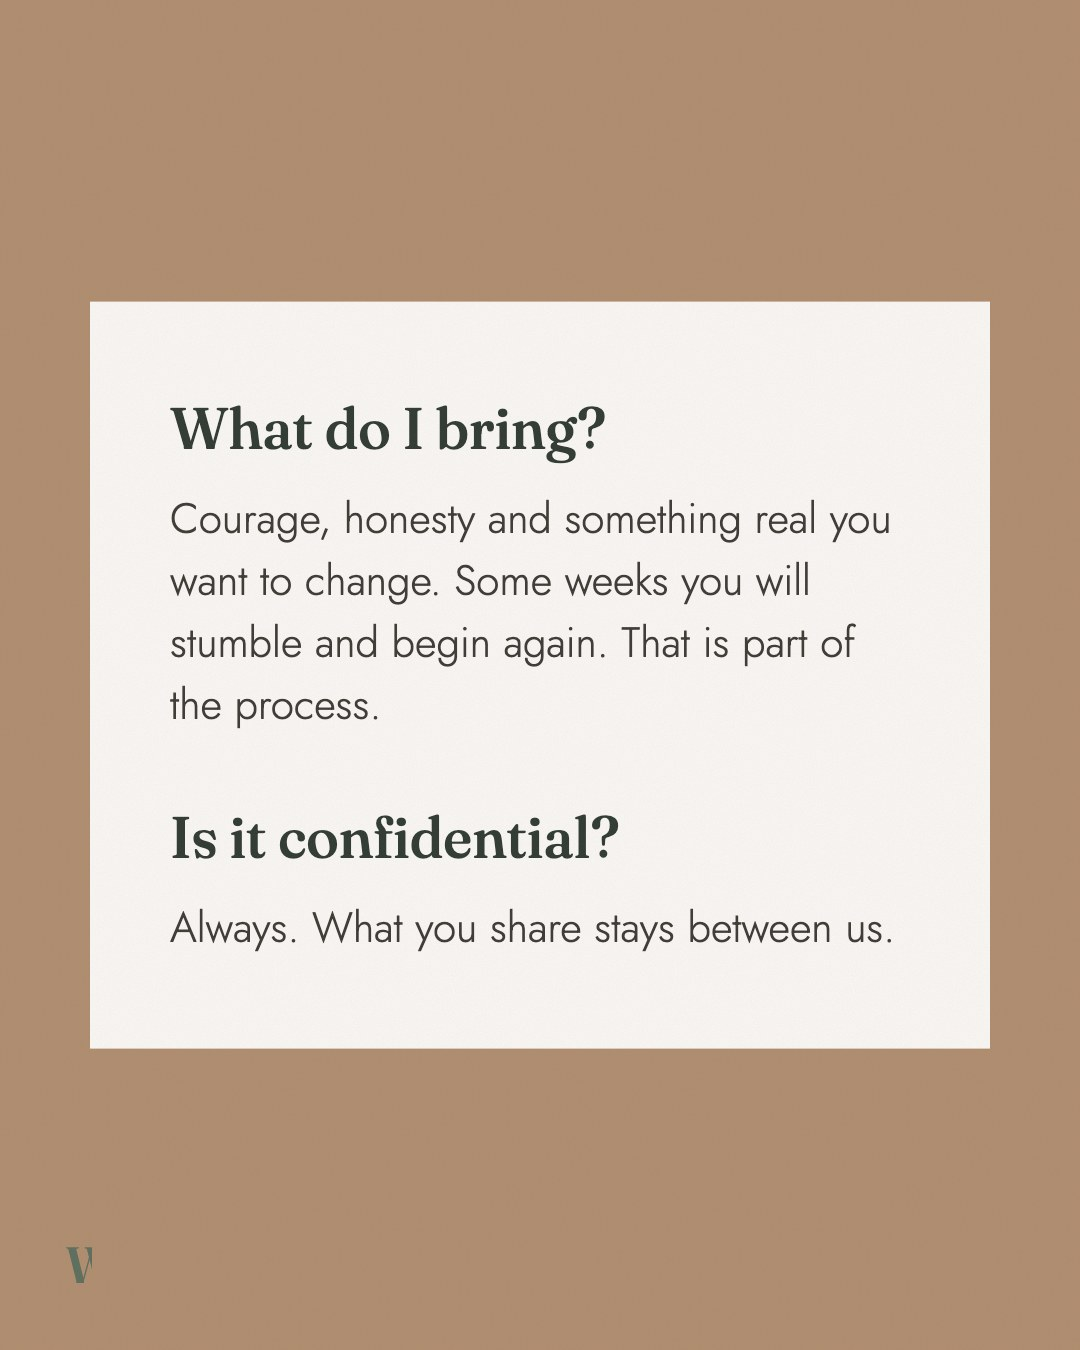
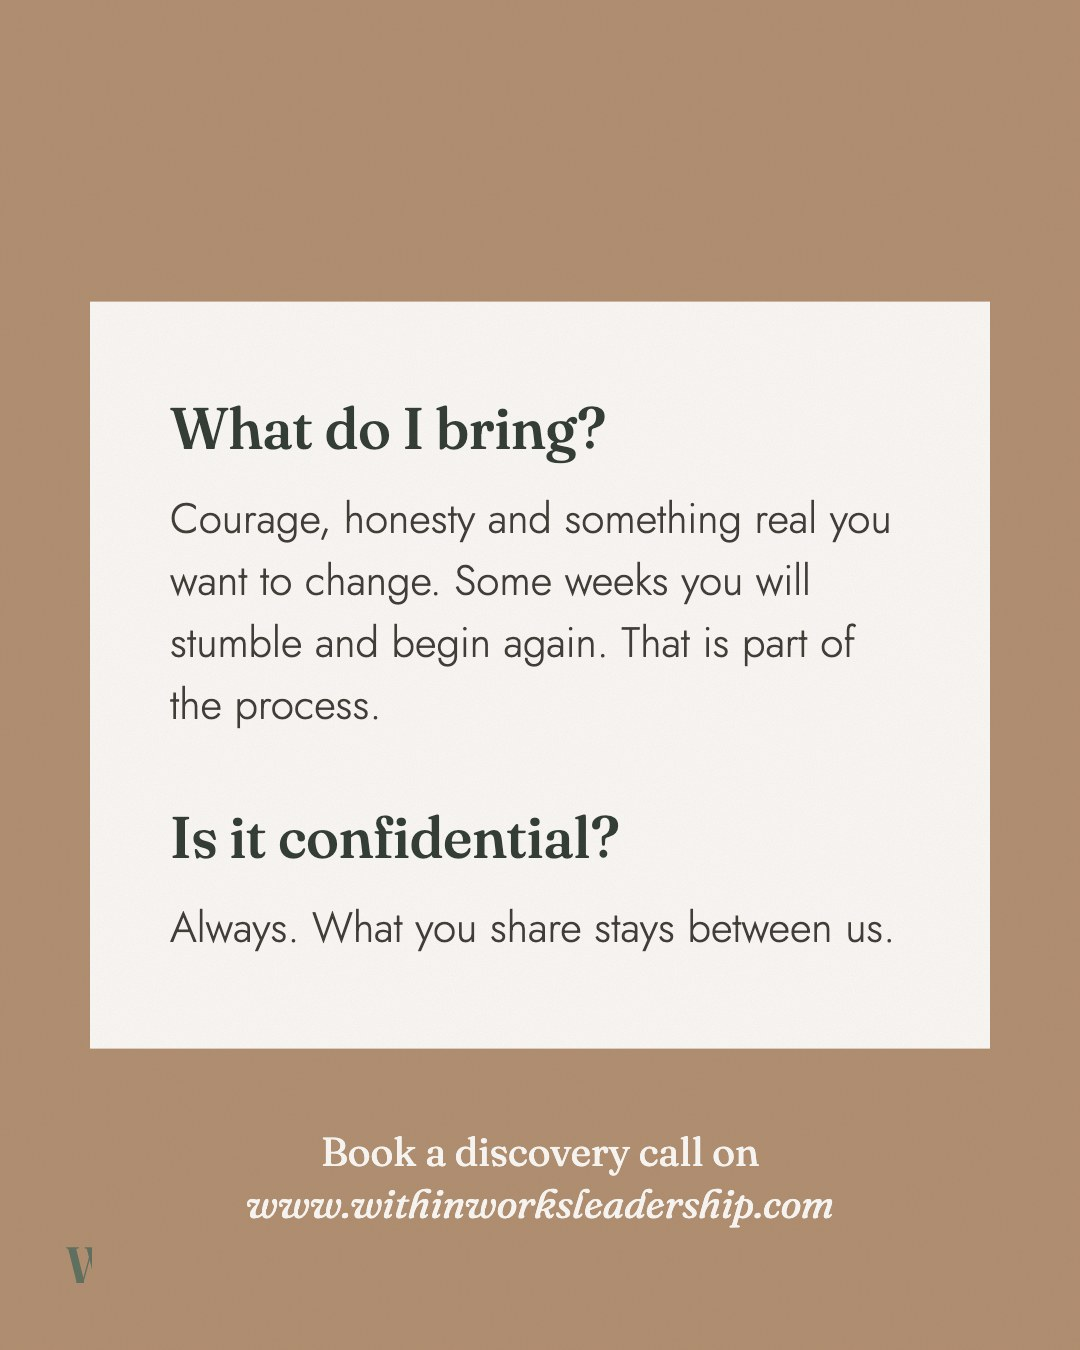
CTA: discovery call on post 3, posts 4 and 7 captions, reel 2

Changed region(s): [[0.2139, 0.84, 0.7639, 0.9022]]

diff --git a/content/index.html b/content/index.html
@@ -51,24 +51,32 @@ Not sure which one you need? Ask me. I’ll tell you honestly, even if it isn’
 <p class="eyebrow" style="margin-bottom:10px">03 &middot; How coaching works<span class="rev">Revised 4 Nov</span></p>
 <div class="ig">
   <div class="ig-head"><img src="../assets/megha.jpg" alt=""><span><b>megha.withinworks</b><small>Dubai</small></span><span class="dots">&middot;&middot;&middot;</span></div>
-  <div class="ig-media"><div class="ig-track"><img src="../posts/c1-11a.jpg?v=1793812915" alt="" loading="lazy" width="1080" height="1350"><img src="../posts/c1-11b.jpg?v=1793812916" alt="" loading="lazy" width="1080" height="1350"><img src="../posts/c1-11c.jpg?v=1793812916" alt="" loading="lazy" width="1080" height="1350"></div><span class="ig-count">1/3</span><button class="ig-arrow prev" aria-label="Previous" hidden>&#8249;</button><button class="ig-arrow next" aria-label="Next">&#8250;</button></div>
+  <div class="ig-media"><div class="ig-track"><img src="../posts/c1-11a.jpg?v=1793814234" alt="" loading="lazy" width="1080" height="1350"><img src="../posts/c1-11b.jpg?v=1793814235" alt="" loading="lazy" width="1080" height="1350"><img src="../posts/c1-11c.jpg?v=1793814235" alt="" loading="lazy" width="1080" height="1350"></div><span class="ig-count">1/3</span><button class="ig-arrow prev" aria-label="Previous" hidden>&#8249;</button><button class="ig-arrow next" aria-label="Next">&#8250;</button></div>
   <div class="ig-bar"><svg viewBox="0 0 24 24" class=""><path d="M12 21s-7.5-4.6-9.3-9.2C1.4 8.4 3.6 5 7 5c2 0 3.4 1.1 5 3 1.6-1.9 3-3 5-3 3.4 0 5.6 3.4 4.3 6.8C19.5 16.4 12 21 12 21z"/></svg><svg viewBox="0 0 24 24" class=""><path d="M20.5 12a8.5 8.5 0 0 1-12.4 7.5L3.5 21l1.5-4.4A8.5 8.5 0 1 1 20.5 12z"/></svg><svg viewBox="0 0 24 24" class=""><path d="M22 3 9.2 10.1M22 3l-7 18-3.8-8.6L2 9.5 22 3z"/></svg><span class="ig-pips"><i></i><i></i><i></i></span><svg viewBox="0 0 24 24" class="save"><path d="M19 21l-7-5.2L5 21V3h14z"/></svg></div>
   <div class="ig-cap clip"><b>megha.withinworks</b>Coaching is a process, not a pill. It asks for courage, honest conversations and the willingness to begin again.
 
-Small steps. No judgement, just progress.</div><button class="ig-more" type="button">more</button>
+Small steps. No judgement, just progress.
+
+Book a discovery call on www.withinworksleadership.com</div><button class="ig-more" type="button">more</button>
   <div class="ig-when"><span></span><div class="copyrow"><button class="copy" type="button" title="Copy caption" aria-label="Copy caption"><svg viewBox="0 0 24 24"><rect x="9" y="9" width="11" height="11" rx="2"/><path d="M5 15V6a2 2 0 0 1 2-2h9"/></svg></button><textarea class="cap-src" hidden>Coaching is a process, not a pill. It asks for courage, honest conversations and the willingness to begin again.
 
-Small steps. No judgement, just progress.</textarea></div></div>
+Small steps. No judgement, just progress.
+
+Book a discovery call on www.withinworksleadership.com</textarea></div></div>
 </div>
 <div class="review post" data-id="c1-11" data-title="How coaching works" style="background:none;border:0;padding:14px 0 0"></div>
 </article><article class="post-wrap" id="c1-9">
-<p class="eyebrow" style="margin-bottom:10px">04 &middot; Who I work with</p>
+<p class="eyebrow" style="margin-bottom:10px">04 &middot; Who I work with<span class="rev">Revised 4 Nov</span></p>
 <div class="ig">
   <div class="ig-head"><img src="../assets/megha.jpg" alt=""><span><b>megha.withinworks</b><small>Dubai</small></span><span class="dots">&middot;&middot;&middot;</span></div>
   <div class="ig-media"><div class="ig-track"><img src="../posts/c1-9.jpg?v=1793551166" alt="" loading="lazy" width="1080" height="1350"></div></div>
   <div class="ig-bar"><svg viewBox="0 0 24 24" class=""><path d="M12 21s-7.5-4.6-9.3-9.2C1.4 8.4 3.6 5 7 5c2 0 3.4 1.1 5 3 1.6-1.9 3-3 5-3 3.4 0 5.6 3.4 4.3 6.8C19.5 16.4 12 21 12 21z"/></svg><svg viewBox="0 0 24 24" class=""><path d="M20.5 12a8.5 8.5 0 0 1-12.4 7.5L3.5 21l1.5-4.4A8.5 8.5 0 1 1 20.5 12z"/></svg><svg viewBox="0 0 24 24" class=""><path d="M22 3 9.2 10.1M22 3l-7 18-3.8-8.6L2 9.5 22 3z"/></svg><svg viewBox="0 0 24 24" class="save"><path d="M19 21l-7-5.2L5 21V3h14z"/></svg></div>
-  <div class="ig-cap clip"><b>megha.withinworks</b>If one of these sounds like you, I’d like to hear your story.</div><button class="ig-more" type="button">more</button>
-  <div class="ig-when"><span></span><div class="copyrow"><button class="copy" type="button" title="Copy caption" aria-label="Copy caption"><svg viewBox="0 0 24 24"><rect x="9" y="9" width="11" height="11" rx="2"/><path d="M5 15V6a2 2 0 0 1 2-2h9"/></svg></button><textarea class="cap-src" hidden>If one of these sounds like you, I’d like to hear your story.</textarea></div></div>
+  <div class="ig-cap clip"><b>megha.withinworks</b>If one of these sounds like you, I’d like to hear your story.
+
+Book a discovery call on www.withinworksleadership.com</div><button class="ig-more" type="button">more</button>
+  <div class="ig-when"><span></span><div class="copyrow"><button class="copy" type="button" title="Copy caption" aria-label="Copy caption"><svg viewBox="0 0 24 24"><rect x="9" y="9" width="11" height="11" rx="2"/><path d="M5 15V6a2 2 0 0 1 2-2h9"/></svg></button><textarea class="cap-src" hidden>If one of these sounds like you, I’d like to hear your story.
+
+Book a discovery call on www.withinworksleadership.com</textarea></div></div>
 </div>
 <div class="review post" data-id="c1-9" data-title="Who I work with" style="background:none;border:0;padding:14px 0 0"></div>
 </article><article class="post-wrap" id="c1-15">
@@ -92,13 +100,17 @@ Small steps. No judgement, just progress.</textarea></div></div>
 </div>
 <div class="review post" data-id="c1-2" data-title="Words in the world" style="background:none;border:0;padding:14px 0 0"></div>
 </article><article class="post-wrap" id="c1-12">
-<p class="eyebrow" style="margin-bottom:10px">07 &middot; Three people in the room</p>
+<p class="eyebrow" style="margin-bottom:10px">07 &middot; Three people in the room<span class="rev">Revised 4 Nov</span></p>
 <div class="ig">
   <div class="ig-head"><img src="../assets/megha.jpg" alt=""><span><b>megha.withinworks</b><small>Dubai</small></span><span class="dots">&middot;&middot;&middot;</span></div>
   <div class="ig-media"><div class="ig-track"><img src="../posts/c1-12a.jpg?v=1793808675" alt="" loading="lazy" width="1080" height="1350"><img src="../posts/c1-12b.jpg?v=1793808676" alt="" loading="lazy" width="1080" height="1350"></div><span class="ig-count">1/2</span><button class="ig-arrow prev" aria-label="Previous" hidden>&#8249;</button><button class="ig-arrow next" aria-label="Next">&#8250;</button></div>
   <div class="ig-bar"><svg viewBox="0 0 24 24" class=""><path d="M12 21s-7.5-4.6-9.3-9.2C1.4 8.4 3.6 5 7 5c2 0 3.4 1.1 5 3 1.6-1.9 3-3 5-3 3.4 0 5.6 3.4 4.3 6.8C19.5 16.4 12 21 12 21z"/></svg><svg viewBox="0 0 24 24" class=""><path d="M20.5 12a8.5 8.5 0 0 1-12.4 7.5L3.5 21l1.5-4.4A8.5 8.5 0 1 1 20.5 12z"/></svg><svg viewBox="0 0 24 24" class=""><path d="M22 3 9.2 10.1M22 3l-7 18-3.8-8.6L2 9.5 22 3z"/></svg><span class="ig-pips"><i></i><i></i></span><svg viewBox="0 0 24 24" class="save"><path d="M19 21l-7-5.2L5 21V3h14z"/></svg></div>
-  <div class="ig-cap clip"><b>megha.withinworks</b>Company coaching works best when everyone knows their part. Yours matters most.</div><button class="ig-more" type="button">more</button>
-  <div class="ig-when"><span></span><div class="copyrow"><button class="copy" type="button" title="Copy caption" aria-label="Copy caption"><svg viewBox="0 0 24 24"><rect x="9" y="9" width="11" height="11" rx="2"/><path d="M5 15V6a2 2 0 0 1 2-2h9"/></svg></button><textarea class="cap-src" hidden>Company coaching works best when everyone knows their part. Yours matters most.</textarea></div></div>
+  <div class="ig-cap clip"><b>megha.withinworks</b>Company coaching works best when everyone knows their part. Yours matters most.
+
+Book a discovery call on www.withinworksleadership.com</div><button class="ig-more" type="button">more</button>
+  <div class="ig-when"><span></span><div class="copyrow"><button class="copy" type="button" title="Copy caption" aria-label="Copy caption"><svg viewBox="0 0 24 24"><rect x="9" y="9" width="11" height="11" rx="2"/><path d="M5 15V6a2 2 0 0 1 2-2h9"/></svg></button><textarea class="cap-src" hidden>Company coaching works best when everyone knows their part. Yours matters most.
+
+Book a discovery call on www.withinworksleadership.com</textarea></div></div>
 </div>
 <div class="review post" data-id="c1-12" data-title="Three people in the room" style="background:none;border:0;padding:14px 0 0"></div>
 </article><article class="post-wrap" id="c1-3">

diff --git a/index.html b/index.html
@@ -20,7 +20,7 @@
 <a class="brand" href="./"><svg class="mark"><use href="#ww"/></svg><span><b>WithinWorks</b><small>The Brain</small></span></a>
 </div></header>
 <div class="shell">
-<a class="now" href="content/"><span><p class="eyebrow">Now &middot; Collection 1</p><h2>Fifteen posts across the themes</h2><small id="now-status">For Megha&rsquo;s review</small></span><span class="thumbs"><img src="posts/c1-1a.jpg?v=1793808671" alt=""><img src="posts/c1-5a.jpg?v=1793551163" alt=""><img src="posts/c1-11a.jpg?v=1793812915" alt=""></span></a>
+<a class="now" href="content/"><span><p class="eyebrow">Now &middot; Collection 1</p><h2>Fifteen posts across the themes</h2><small id="now-status">For Megha&rsquo;s review</small></span><span class="thumbs"><img src="posts/c1-1a.jpg?v=1793808671" alt=""><img src="posts/c1-5a.jpg?v=1793551163" alt=""><img src="posts/c1-11a.jpg?v=1793814234" alt=""></span></a>
 <nav class="menu"><a class="door tint" href="content/"><span><span class="n">01</span><h3>Instagram</h3><p>Collection 1: fifteen posts for approval</p></span><span class="go">&rarr;</span></a><a class="door" href="linkedin/"><span><span class="n">02</span><h3>LinkedIn</h3><p>Batch 1: text, pages, single post</p></span><span class="go">&rarr;</span></a><a class="door" href="stories/"><span><span class="n">03</span><h3>Stories</h3><p>Instagram stories for approval</p></span><span class="go">&rarr;</span></a><a class="door" href="reels.html"><span><span class="n">04</span><h3>Reels</h3><p>Reel strategy and ten scripts</p></span><span class="go">&rarr;</span></a><a class="door" href="strategy.html"><span><span class="n">05</span><h3>Strategy</h3><p>The plan for her brand</p></span><span class="go">&rarr;</span></a><a class="door" href="megha.html"><span><span class="n">06</span><h3>Megha</h3><p>Career, credentials, life</p></span><span class="go">&rarr;</span></a><a class="door" href="voice.html"><span><span class="n">07</span><h3>Voice</h3><p>Her words and her form answers</p></span><span class="go">&rarr;</span></a><a class="door" href="audience.html"><span><span class="n">08</span><h3>Audience</h3><p>Who she wants to work with</p></span><span class="go">&rarr;</span></a><a class="door" href="brand.html"><span><span class="n">09</span><h3>Brand</h3><p>Logo, colours, fonts</p></span><span class="go">&rarr;</span></a><a class="door" href="offers.html"><span><span class="n">10</span><h3>Offers</h3><p>Discovery call and three offers</p></span><span class="go">&rarr;</span></a><a class="door" href="tech.html"><span><span class="n">11</span><h3>Tech</h3><p>Website, hosting, tools</p></span><span class="go">&rarr;</span></a><a class="door" href="photos.html"><span><span class="n">12</span><h3>Photos</h3><p>Megha&rsquo;s photos, numbered</p></span><span class="go">&rarr;</span></a><a class="door" href="research.html"><span><span class="n">13</span><h3>Research</h3><p>Coaching, references, likes and dislikes</p></span><span class="go">&rarr;</span></a><a class="door" href="ideas.html"><span><span class="n">14</span><h3>Ideas</h3><p>Add an idea or a link</p></span><span class="go">&rarr;</span></a></nav>
 </div>
 

diff --git a/reel-cuts/index.html b/reel-cuts/index.html
@@ -31,7 +31,7 @@
 <div class="story" style="background:#000"><video src="reel2.mp4?v=1793812998" poster="reel2.jpg?v=1793812998" controls playsinline preload="metadata"
   style="display:block;width:100%;aspect-ratio:9/16;object-fit:cover;background:#000"></video></div>
 <p style="margin:12px 0 4px;color:var(--text-light)">The moment that made her stop, and how coaching came into her life.</p>
-<div class="ig-cap" style="padding:0;margin:6px 0 0"><b>megha.withinworks</b> I used to plan everything. Then life asked me to stop.</div>
+<div class="ig-cap" style="padding:0;margin:6px 0 0"><b>megha.withinworks</b> I used to plan everything. Then life asked me to stop. Book a discovery call on www.withinworksleadership.com</div>
 <div class="review post" data-id="r2" data-title="Reel 02: How coaching found me" style="background:none;border:0;padding:14px 0 0"></div>
 </article></div></div></div></section>
 <div class="shell"><nav class="doors"><a href="../">Brain</a><a href="../content/">Instagram</a><a href="../linkedin/">LinkedIn</a><a href="../stories/">Stories</a><a href="../reels.html" class="here">Reels</a><a href="../strategy.html">Strategy</a><a href="../megha.html">Megha</a><a href="../voice.html">Voice</a><a href="../audience.html">Audience</a><a href="../brand.html">Brand</a><a href="../offers.html">Offers</a><a href="../tech.html">Tech</a><a href="../photos.html">Photos</a><a href="../research.html">Research</a><a href="../ideas.html">Ideas</a></nav></div>
